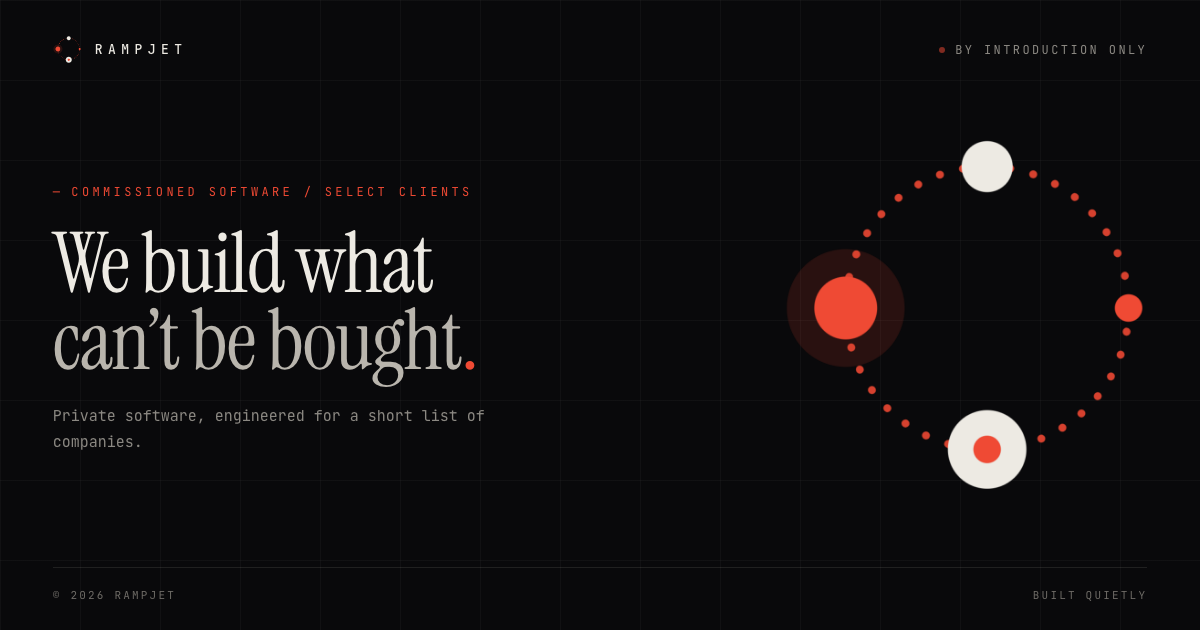
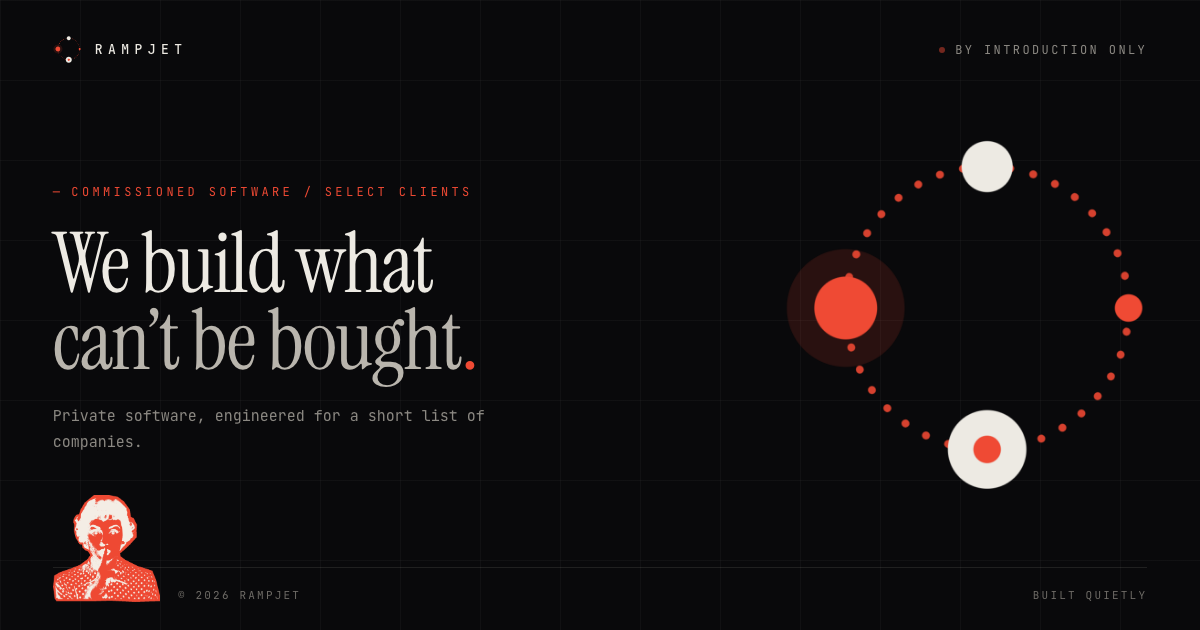
Add the "shh" figure to the footer corner
The finger-to-lips halftone, sitting bottom-left over the footer rule
with the copyright to her right. Her orange is #EF4A34 -- the page's
--accent to the digit -- and her cream is a hair off --ink, so she
was clearly cut for this page.

Background stripped by flood-filling the connected white from the
corners, so only the true background goes and the whites inside the
figure (the eyes) survive. The art is three flat colours, so it ships
as a paletted PNG: 24 KB against 220 KB for the truecolour version.

Positioned absolutely and sized by viewport height. The page is a
fixed single screen with overflow hidden, so anything in normal flow
risks pushing the headline off a short display; this way she can't.
Verified 32px clear of the headline at 1280x560. Hidden on phones, where
the footer is already a tight two-item bar.

Share card regenerated so it matches.

Changed region(s): [[0.0308, 0.7841, 0.1542, 0.9651], [0.185, 0.9349, 0.2467, 0.9651]]

diff --git a/index.html b/index.html
@@ -110,6 +110,17 @@
     font-size: 11px; letter-spacing: 0.2em; color: var(--faint); text-transform: uppercase;
   }
   .m-only { display: none; }
+  /* the "shh" figure: sits in the bottom-left corner, rising over the footer rule,
+     with the copyright to its right. Sized by viewport height so it never crowds
+     the headline on a short screen. */
+  .shh {
+    position: absolute; z-index: 2;
+    left: clamp(24px, 4.4vw, 64px);
+    bottom: clamp(24px, 4.4vh, 40px);
+    height: clamp(88px, 17vh, 168px); width: auto;
+    pointer-events: none; user-select: none;
+  }
+  footer .d-only:first-child { margin-left: calc(clamp(88px, 17vh, 168px) + 18px); }
 
   /* Phones and narrow screens */
   @media (max-width: 760px) {
@@ -123,7 +134,7 @@
     .brand { gap: 10px; }
     .brand img { width: 24px; }
     .brand span { font-size: 12px; letter-spacing: 0.38em; }
-    .status, .d-only { display: none; }
+    .status, .d-only, .shh { display: none; }
     .m-only { display: inline; }
     main { max-width: none; gap: 24px; margin-top: auto; margin-bottom: 32px; }
     .eyebrow { font-size: 10px; letter-spacing: 0.2em; }
@@ -157,6 +168,8 @@
     <h1>We build what<br> <span class="soft">can’t be bought</span><span class="stop">.</span></h1>
     <p class="lede">Private software, engineered for a short list of companies.</p>
   </main>
+
+  <img class="shh" src="/shh.png" alt="" width="640" height="639">
 
   <footer>
     <span class="d-only">© 2026 Rampjet</span>

diff --git a/README.md b/README.md
@@ -4,6 +4,7 @@ A single holding page. No nav, no other routes.
 
 - `index.html` — the page (self-contained CSS; Google Fonts for Instrument Serif and JetBrains Mono)
 - `mark.png` — the flywheel mark, used as both the hero graphic and the brand icon
+- `shh.png` — the finger-to-lips figure in the footer corner (3-colour palette PNG, 24 KB; hidden on phones)
 - `og-image.png` — share card, rendered from the page at 1200x630
 - `favicon.svg`, `apple-touch-icon.png`
 - `CNAME` — rampjet.ai on GitHub Pages; **a push to `main` is a production deploy**
